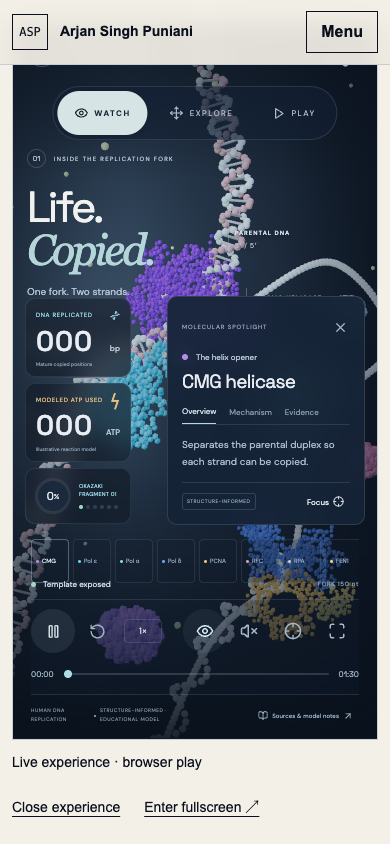
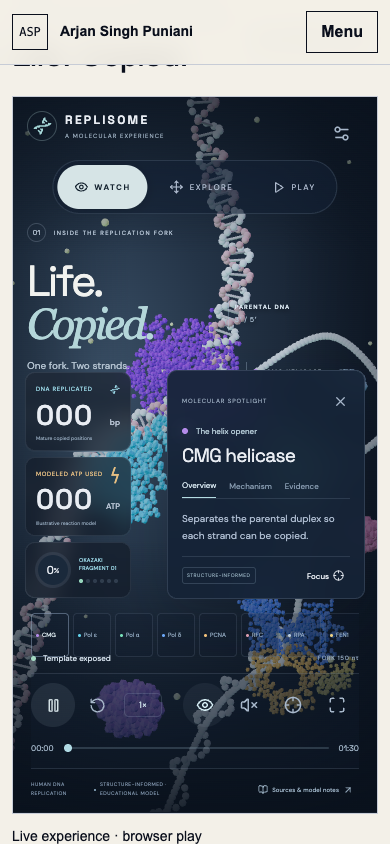
Keep embedded controls below the site header and verify direct launch

diff --git a/arjan-portfolio/src/app/playground/replisome/replisome.module.css b/arjan-portfolio/src/app/playground/replisome/replisome.module.css
@@ -6,8 +6,8 @@
 .experience { padding-top: 28px; padding-bottom: 28px; }
 .sectionHead { display: flex; flex-wrap: wrap; align-items: center; justify-content: space-between; gap: 20px; margin-bottom: 24px; }
 .sectionHead h2 { margin: 10px 0 0; font-size: clamp(34px, 4vw, 52px); }
-.frameShell { position: relative; overflow: hidden; border: 1px solid var(--line); background: #131d2a; color: #f7f4eb; scroll-margin-top: 24px; }
-.active { height: clamp(700px, 85svh, 1000px); }
+.frameShell { position: relative; overflow: hidden; border: 1px solid var(--line); background: #131d2a; color: #f7f4eb; scroll-margin-top: 96px; }
+.active { height: clamp(700px, calc(100svh - 180px), 1000px); }
 .simFrame { display: block; width: 100%; height: 100%; border: 0; }
 .poster { position: relative; height: clamp(420px, 50vw, 650px); }
 .poster img { width: 100%; height: 100%; object-fit: cover; }

diff --git a/arjan-portfolio/public/replisome/index.html b/arjan-portfolio/public/replisome/index.html
@@ -1,6 +1,7 @@
 <!doctype html>
 <html lang="en">
   <head>
+    <link rel="icon" href="/icon.svg" type="image/svg+xml" />
     <meta name="robots" content="noindex,follow" />
     <link rel="canonical" href="https://arjansinghpuniani.com/playground/replisome" />
     <meta charset="UTF-8" />

diff --git a/arjan-portfolio/Documentation/REPLISOME-INTEGRATION.md b/arjan-portfolio/Documentation/REPLISOME-INTEGRATION.md
@@ -21,8 +21,8 @@ No existing experience bundle, shared layout, global CSS, contact behavior, or p
 - `npm run verify`: lint (0 errors; 13 pre-existing warnings in anatomy/Rally House bundles), TypeScript, 91 existing tests with coverage, production build passed.
 - `npm test --prefix ../replisome-source`: 22 unit tests passed.
 - `node tools/replisome/sync-build.mjs`: strict TypeScript and standalone production build passed, using `/replisome/` as the asset base.
-- `REPLISOME_QA_URL=http://127.0.0.1:3072 node tools/replisome/browser-qa.mjs`: 18 integration/regression scenarios passed, no page errors or failed HTTP responses.
-- Chromium and WebKit at 1440×900 and 390×844: card placement, decoded preview images, zero eager app requests, responsive parent/iframe layouts, automated WCAG A/AA scan of the introduction, keyboard launch, local fonts and molecular data, all three modes, fullscreen or its fallback, close/focus restoration, reopen and Playground navigation.
+- `REPLISOME_QA_URL=http://127.0.0.1:3072 node tools/replisome/browser-qa.mjs`: 20 integration/regression scenarios passed, no page errors or failed HTTP responses.
+- Chromium and WebKit at 1440×900 and 390×844: card placement, decoded preview images, zero eager app requests, responsive parent/iframe layouts, automated WCAG A/AA scan of the introduction, keyboard launch, local fonts and molecular data, all three modes, fullscreen or its fallback, close/focus restoration, reopen, direct/new-tab launch and Playground navigation. The card title stays within its column, and the site header does not cover the launched experience.
 - Missing-WebGL checks in both engines retain readable guidance and a working close control.
 - Twelve established routes return HTTP 200 and retain their heading and shared navigation.
 
@@ -32,6 +32,6 @@ Automated browser checks do not replace physical iPhone, thermal, or VoiceOver v
 
 ## Release and rollback
 
-Push only the isolated feature branch, inspect its Vercel preview, and repeat browser QA against the preview before merging. Confirm the resulting production deployment and public routes. Do not deploy unrelated dirty local checkouts.
+Push only the isolated feature branch and require a successful Vercel preview build. Repeat browser QA against the hosted preview when access permits. Vercel currently protects preview URLs with sign-in, so unauthenticated hosted browser QA is unavailable; the full local production-build checks above provide the pre-release validation. Confirm the resulting public production deployment and repeat browser QA immediately after release. Do not deploy unrelated dirty local checkouts.
 
 For rollback, revert the integration merge commit through a new commit and redeploy, or restore the previous production deployment above in Vercel. Existing experiences have not been rebuilt or replaced by this integration.
